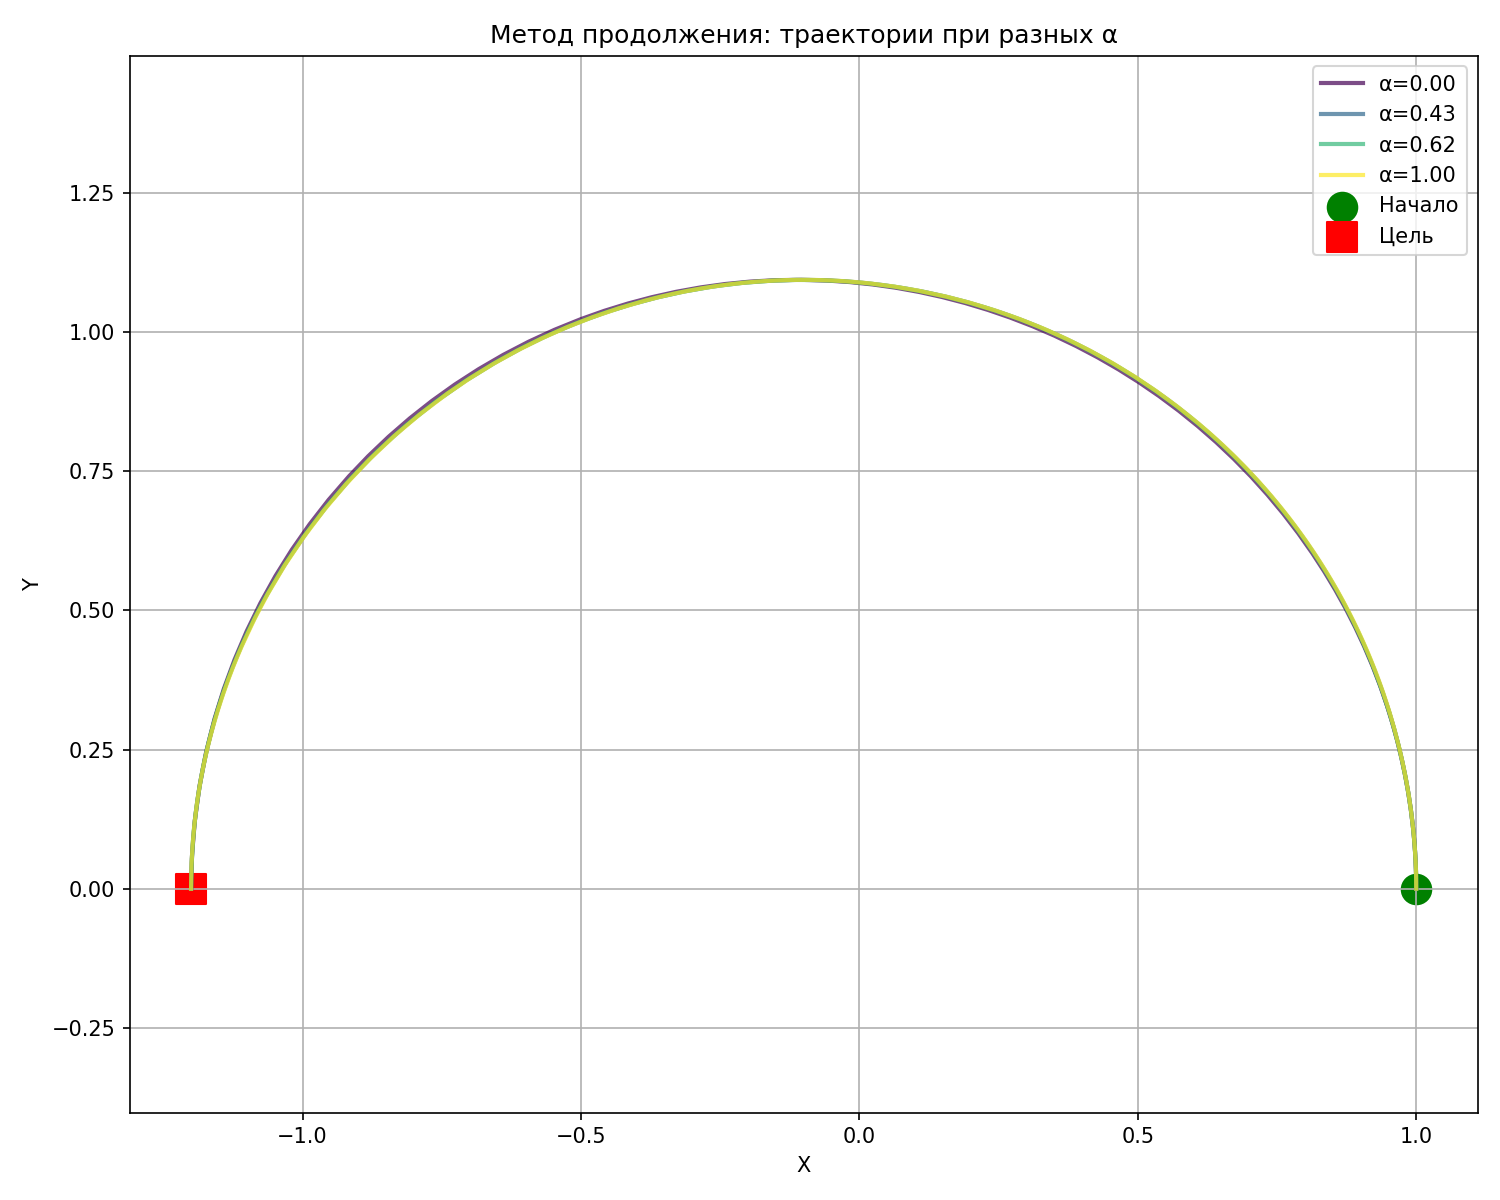
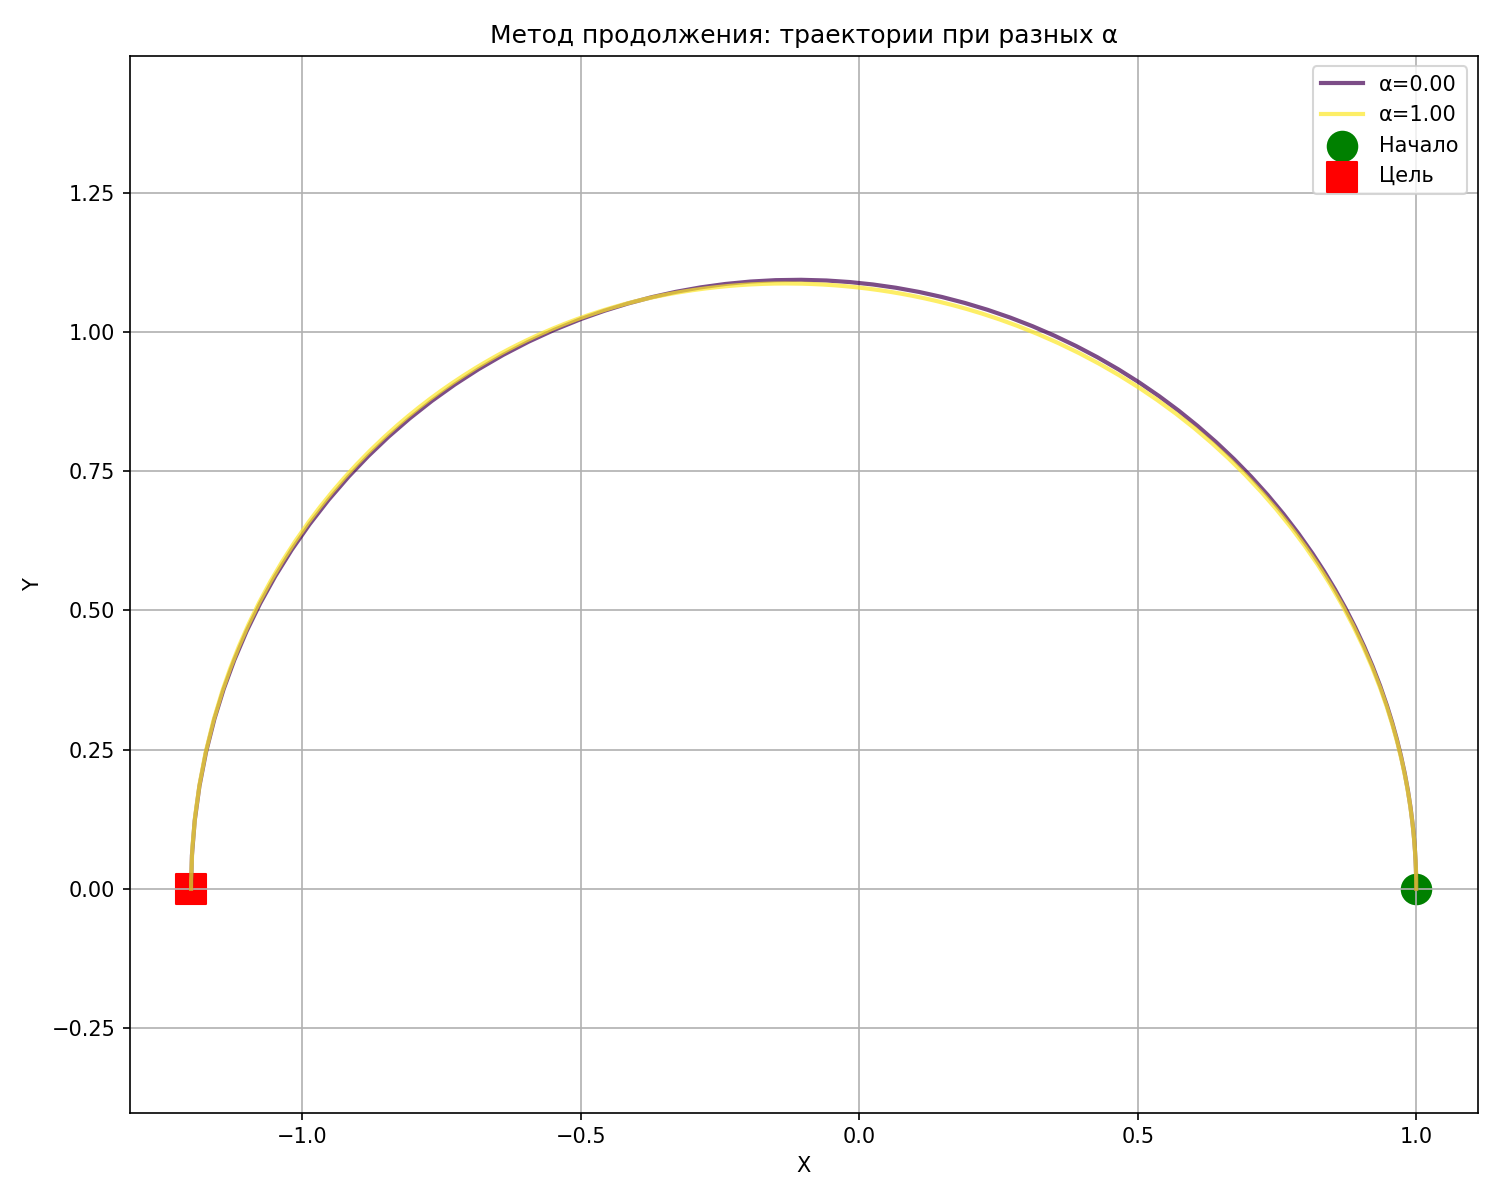
added correct graphs

diff --git a/result_traj.py b/result_traj.py
@@ -40,31 +40,20 @@ class OptimalControlSolver:
                 return np.zeros(3)
             
             if abs(self.alpha) < 1e-12:
-                return pv
-
-            if abs(self.alpha - 1.0) < 1e-12:
-                smooth_eps = 1e-3
-                x = pv_norm - (1 - smooth_eps)
-                smooth = 0.5 * (x + np.sqrt(x**2 + smooth_eps**2))
-                scale = np.clip(smooth / smooth_eps, 0.0, 1.0)
-                a = scale * (pv / pv_norm)
-                # Ограничение по a_max
-                a_norm = np.linalg.norm(a)
-                if a_norm > self.a_max:
-                    a = self.a_max * a / a_norm
-                return a
-
-            x = pv_norm - self.alpha
-            smooth = 0.5 * (x + np.sqrt(x**2 + 1e-6))
-            scale = smooth / (1 - self.alpha)
-            scale = np.clip(scale, 0.0, 1.0)
-
-            a = scale * (pv / pv_norm)
-            a_norm = np.linalg.norm(a)
-            if a_norm > self.a_max:
-                a = self.a_max * a / a_norm
+                a = pv
+            elif abs(self.alpha - 1.0) < 1e-12:
+                a = self.a_max * pv / pv_norm if pv_norm > 1e-12 else np.zeros(3)
+            else:
+                if pv_norm <= self.alpha:
+                    a = np.zeros(3)
+                else:
+                    a = ((pv_norm - self.alpha) / (1 - self.alpha)) * (pv / pv_norm)
+                    a_norm = np.linalg.norm(a)
+                    if a_norm > self.a_max:
+                        a = (self.a_max / a_norm) * a
 
             return a
+
 
     def system_equations(self, t, y):
         r = y[0:3]
@@ -328,8 +317,7 @@ if __name__ == "__main__":
         print(f"α = {res['alpha']:.3f}, a_max = {res['a_max']:.6f}")
 
     if results:
-        step = max(1, len(results) // 3)
-        plot_results = results[::step]
+        plot_results = [results[0], results[-1]]
         solver.plot_trajectories_2d(plot_results, 'continuation_trajectories.png')
         solver.plot_thrust_profiles(plot_results, 'thrust_profiles.png')
 
